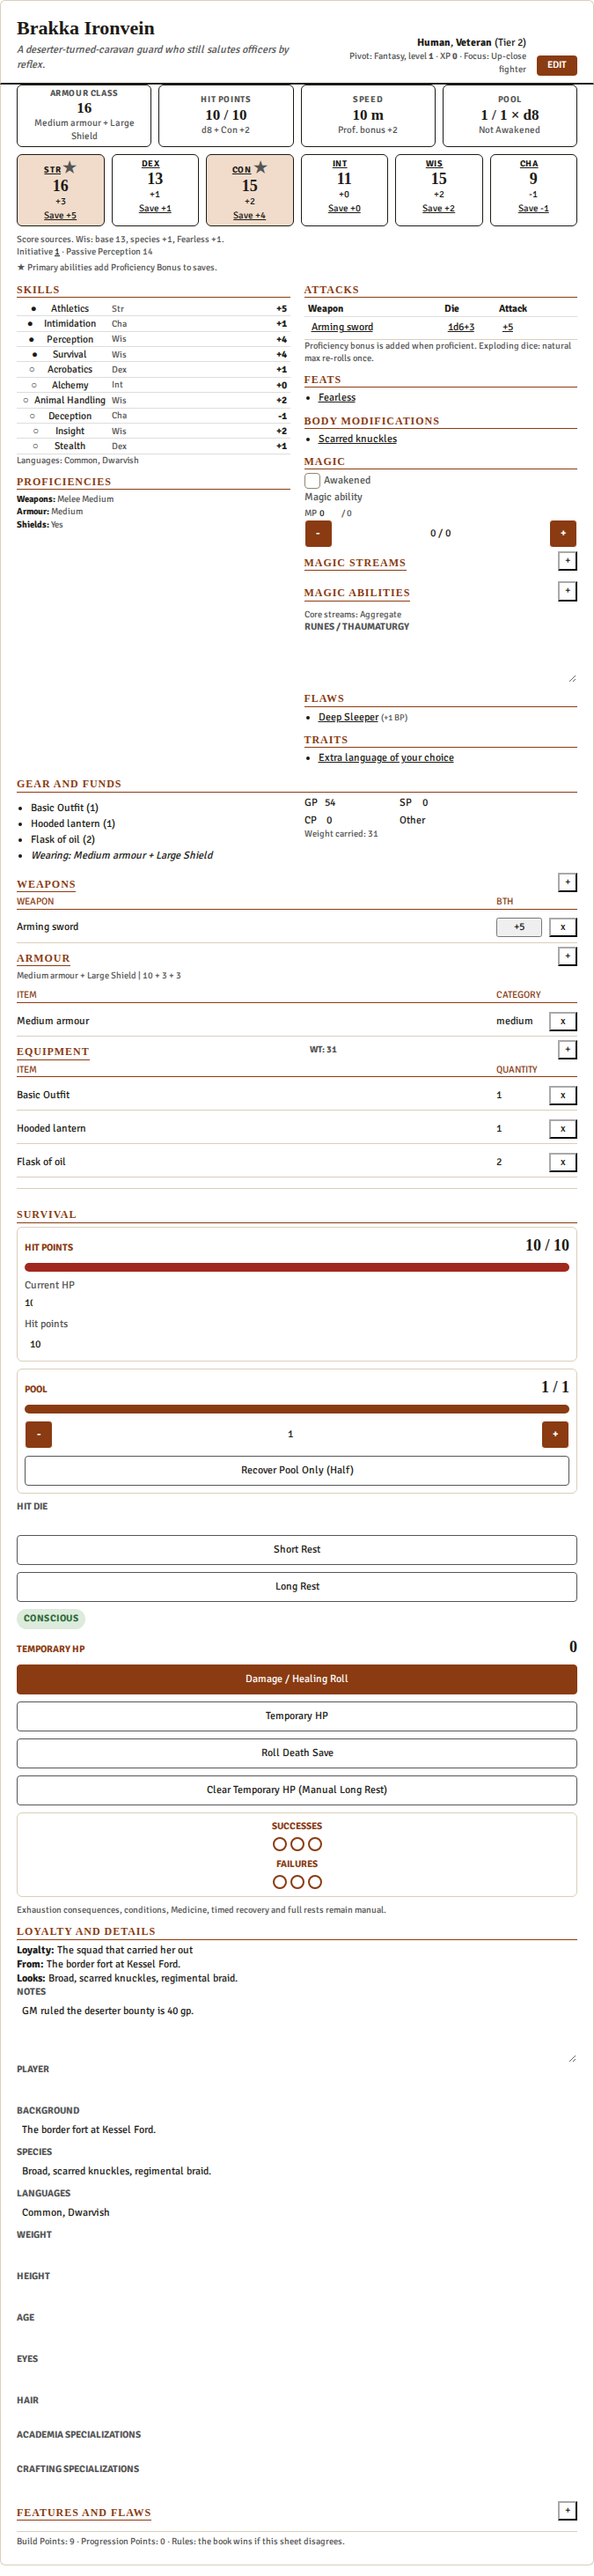
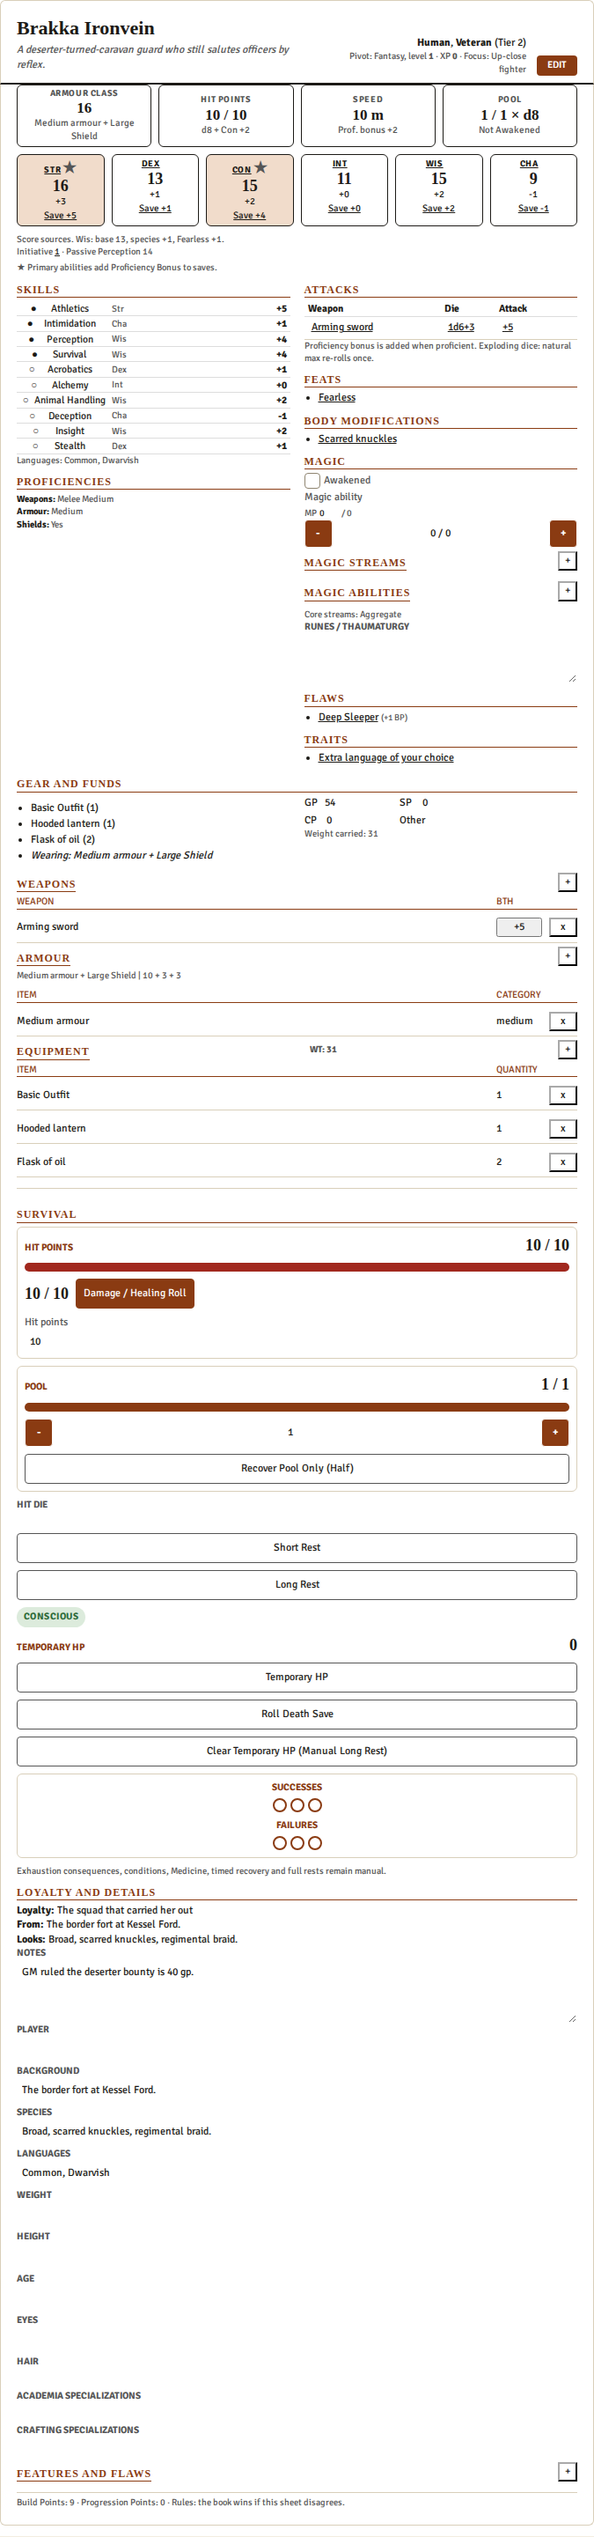
fix: show current HP as text beside the survival controls
Current HP stays off the form, the same as main. The sheet draws value / max in Georgia and keeps the damage, healing, and correction controls on that line.

diff --git a/src/runtime/actor-guards.ts b/src/runtime/actor-guards.ts
@@ -1,93 +1,22 @@
-import { survivalStatusForHpEdit, validAmount } from "../rules/survival";
+import { validAmount } from "../rules/survival";
 import { warn } from "./ui";
-
-function submittedStatus(changes: Record<string, unknown>): string | undefined {
-  const dotted = changes["system.attributes.deathSaves.status"];
-  if (typeof dotted === "string") return dotted;
-  const nested = changes.system as
-    { attributes?: { deathSaves?: { status?: unknown } } } | undefined;
-  const status = nested?.attributes?.deathSaves?.status;
-  return typeof status === "string" ? status : undefined;
-}
-
-function persistedHp(
-  changes: Record<string, unknown>,
-  nestedHp: { value?: unknown } | undefined,
-): number | undefined {
-  if (typeof changes["system.attributes.hp.value"] === "number") {
-    return changes["system.attributes.hp.value"];
-  }
-  if (typeof nestedHp?.value === "number") return nestedHp.value;
-  return undefined;
-}
-
-function writeHpEditStatus(changes: Record<string, unknown>, status: "alive" | "dying"): void {
-  const fields = {
-    "system.attributes.deathSaves.status": status,
-    "system.attributes.deathSaves.successes": 0,
-    "system.attributes.deathSaves.failures": 0,
-  };
-  const nested = changes.system;
-  if (nested && typeof nested === "object") {
-    const system = nested as { attributes?: Record<string, unknown> };
-    const attributes = (system.attributes ??= {});
-    const deathSaves = (attributes.deathSaves ??= {}) as Record<string, unknown>;
-    deathSaves.status = status;
-    deathSaves.successes = 0;
-    deathSaves.failures = 0;
-  }
-  if (typeof changes["system.attributes.hp.value"] === "number" || !nested) {
-    Object.assign(changes, fields);
-  }
-}
-
 export function guardHpMaximum(
   actor: { system?: unknown },
   changes: Record<string, unknown>,
 ): false | undefined {
   const system = actor.system as
-    | {
-        attributes?: {
-          hp?: { value?: number; max?: number };
-          deathSaves?: { status?: string };
-        };
-      }
-    | undefined;
+    { attributes?: { hp?: { value?: number; max?: number } } } | undefined;
   const nested = changes.system as
     { attributes?: { hp?: { value?: unknown; max?: unknown } } } | undefined;
-  const currentValue = system?.attributes?.hp?.value ?? 0;
-  const currentMax = system?.attributes?.hp?.max ?? 0;
-  const nestedHp = nested?.attributes?.hp;
-  const rawValue = changes["system.attributes.hp.value"] ?? nestedHp?.value;
-  const rawMax = changes["system.attributes.hp.max"] ?? nestedHp?.max;
-  const nextMax = rawMax === undefined ? currentMax : rawMax;
-  if (
-    rawValue !== undefined &&
-    validAmount(nextMax) &&
-    validAmount(rawValue) &&
-    rawValue > nextMax
-  ) {
-    if (typeof changes["system.attributes.hp.value"] === "number") {
-      changes["system.attributes.hp.value"] = nextMax;
-    }
-    if (nestedHp && typeof nestedHp.value === "number") nestedHp.value = nextMax;
+  const max = changes["system.attributes.hp.max"] ?? nested?.attributes?.hp?.max;
+  if (max === undefined) return;
+  const hp =
+    changes["system.attributes.hp.value"] ??
+    nested?.attributes?.hp?.value ??
+    system?.attributes?.hp?.value ??
+    0;
+  if (!validAmount(max) || !validAmount(hp) || max < hp) {
+    warn("InvalidMaximum");
+    return false;
   }
-
-  const max = changes["system.attributes.hp.max"] ?? nestedHp?.max;
-  if (max !== undefined) {
-    const hp = changes["system.attributes.hp.value"] ?? nestedHp?.value ?? currentValue;
-    if (!validAmount(max) || !validAmount(hp) || max < hp) {
-      warn("InvalidMaximum");
-      return false;
-    }
-  }
-
-  const nextHp = persistedHp(changes, nestedHp);
-  if (nextHp === undefined || !validAmount(nextHp) || !validAmount(nextMax)) return;
-  const nextStatus = survivalStatusForHpEdit(
-    submittedStatus(changes) ?? system?.attributes?.deathSaves?.status,
-    nextHp,
-    nextMax,
-  );
-  if (nextStatus) writeHpEditStatus(changes, nextStatus);
 }

diff --git a/tests/runtime/actor-guards.test.ts b/tests/runtime/actor-guards.test.ts
@@ -8,68 +8,3 @@ it("rejects max below current but permits simultaneous valid correction", () => 
   ).toBeUndefined();
   expect(guardHpMaximum(actor, { system: { attributes: { hp: { max: 11 } } } })).toBeUndefined();
 });
-
-it("clamps a current HP edit to the current maximum", () => {
-  const actor = { system: { attributes: { hp: { value: 4, max: 10 } } } };
-  const changes = { system: { attributes: { hp: { value: 25 } } } };
-  expect(guardHpMaximum(actor, changes)).toBeUndefined();
-  expect(changes.system.attributes.hp.value).toBe(10);
-});
-
-it("sets dying when a current HP edit reaches zero", () => {
-  const actor = {
-    system: {
-      attributes: {
-        hp: { value: 4, max: 10 },
-        deathSaves: { status: "alive", successes: 1, failures: 2 },
-      },
-    },
-  };
-  const changes: {
-    system: {
-      attributes: {
-        hp: { value: number };
-        deathSaves?: { status?: string; successes?: number; failures?: number };
-      };
-    };
-  } = { system: { attributes: { hp: { value: 0 } } } };
-  expect(guardHpMaximum(actor, changes)).toBeUndefined();
-  expect(changes.system.attributes.hp.value).toBe(0);
-  expect(changes.system.attributes.deathSaves).toMatchObject({
-    status: "dying",
-    successes: 0,
-    failures: 0,
-  });
-});
-
-it("keeps a death status submitted with the HP change", () => {
-  const actor = {
-    system: {
-      attributes: {
-        hp: { value: 10, max: 10 },
-        deathSaves: { status: "alive", successes: 0, failures: 0 },
-      },
-    },
-  };
-  const changes: Record<string, unknown> = {
-    "system.attributes.hp.value": 0,
-    "system.attributes.deathSaves.status": "dead",
-    "system.attributes.deathSaves.failures": 3,
-  };
-  expect(guardHpMaximum(actor, changes)).toBeUndefined();
-  expect(changes["system.attributes.deathSaves.status"]).toBe("dead");
-  expect(changes["system.attributes.deathSaves.failures"]).toBe(3);
-});
-
-it("sets alive when a current HP edit rises above zero", () => {
-  const actor = {
-    system: {
-      attributes: { hp: { value: 0, max: 10 }, deathSaves: { status: "dead" } },
-    },
-  };
-  const changes: Record<string, unknown> = { "system.attributes.hp.value": 3 };
-  expect(guardHpMaximum(actor, changes)).toBeUndefined();
-  expect(changes["system.attributes.deathSaves.status"]).toBe("alive");
-  expect(changes["system.attributes.deathSaves.successes"]).toBe(0);
-  expect(changes["system.attributes.deathSaves.failures"]).toBe(0);
-});

diff --git a/tests/rules/survival.test.ts b/tests/rules/survival.test.ts
@@ -1,10 +1,5 @@
 import { describe, expect, it } from "vitest";
-import {
-  applyHealth,
-  resolveDeathSave,
-  survivalStatusForHpEdit,
-  type SurvivalState,
-} from "../../src/rules/survival";
+import { applyHealth, resolveDeathSave, type SurvivalState } from "../../src/rules/survival";
 const state = (patch: Partial<SurvivalState> = {}): SurvivalState => ({
   hp: 10,
   max: 20,
@@ -15,14 +10,6 @@ const state = (patch: Partial<SurvivalState> = {}): SurvivalState => ({
   ...patch,
 });
 describe("HP and survival", () => {
-  it("moves a direct HP edit onto a legal status", () => {
-    expect(survivalStatusForHpEdit("alive", 0, 10)).toBe("dying");
-    expect(survivalStatusForHpEdit("alive", 0, 0)).toBeUndefined();
-    expect(survivalStatusForHpEdit("dying", 0, 10)).toBeUndefined();
-    expect(survivalStatusForHpEdit("dead", 4, 10)).toBe("alive");
-    expect(survivalStatusForHpEdit("unconfirmed", 0, 10)).toBeUndefined();
-    expect(survivalStatusForHpEdit("alive", 4, 10)).toBeUndefined();
-  });
   it("uses temp before HP and preserves source", () => {
     const s = state();
     expect(applyHealth(s, "damage", 8)).toMatchObject({ temp: 0, hp: 7 });

diff --git a/src/rules/survival.ts b/src/rules/survival.ts
@@ -12,16 +12,6 @@ export type HealthKind = "damage" | "healing" | "temp";
 export function validAmount(value: unknown): value is number {
   return typeof value === "number" && Number.isSafeInteger(value) && value >= 0;
 }
-
-export function survivalStatusForHpEdit(
-  status: string | undefined,
-  hp: number,
-  max: number,
-): "alive" | "dying" | undefined {
-  if (hp === 0 && status === "alive" && max > 0) return "dying";
-  if (hp > 0 && (status === "dying" || status === "stable" || status === "dead")) return "alive";
-  return undefined;
-}
 export function validateSurvival(s: SurvivalState): void {
   if (
     ![s.hp, s.max, s.temp, s.successes, s.failures].every(validAmount) ||

diff --git a/styles/pivot-fantasy.css b/styles/pivot-fantasy.css
@@ -415,6 +415,14 @@
   grid-template-columns: repeat(2, minmax(0, 1fr));
 }
 
+.pf-hp-line {
+  align-items: center;
+  display: flex;
+  flex-wrap: wrap;
+  gap: var(--pf-space-2);
+  grid-column: 1 / -1;
+}
+
 .pf-meter-fields label,
 .pf-hit-die {
   display: grid;
@@ -1673,6 +1681,14 @@
   box-shadow: none;
   color: var(--pf-sheet-ink);
   padding: 0;
+}
+
+.pivot-fantasy.sheet.actor.character .pf-print .pf-hp-readout {
+  background: transparent;
+  border: 0;
+  box-shadow: none;
+  color: var(--pf-sheet-ink);
+  font: 700 18px var(--pf-font-display);
 }
 
 .pivot-fantasy.sheet.actor.character .pf-print .pf-ab-score {
